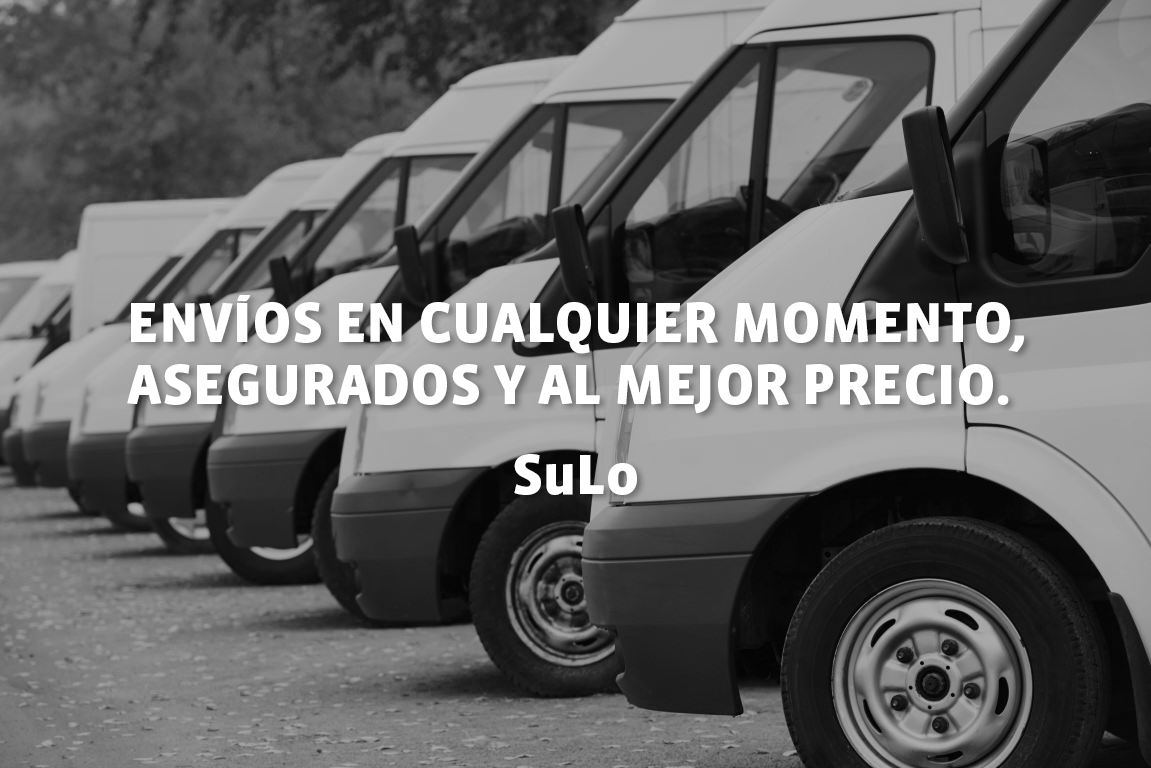
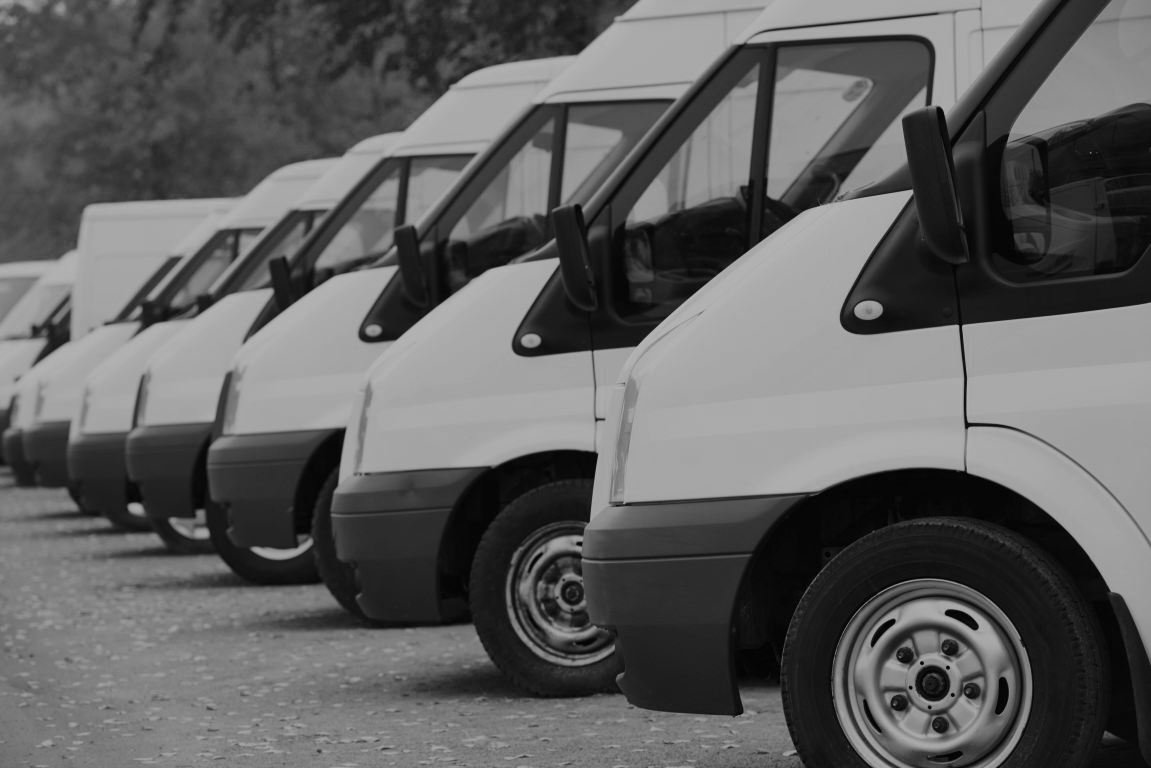
Se cambiaron íconos y se creó la página de precio

Changed region(s): [[0.0912, 0.375, 0.9123, 0.5312], [0.4257, 0.5938, 0.5778, 0.6562]]

diff --git a/index.html b/index.html
@@ -6,6 +6,7 @@
   <meta name="viewport" content="width=device-width, initial-scale=1, shrink-to-fit=no">
   <meta http-equiv="x-ua-compatible" content="ie=edge">
   <link rel="stylesheet" href="css/bootstrap.min.css">
+  <link href="https://fonts.googleapis.com/css?family=Open+Sans+Condensed:700" rel="stylesheet">
   <link rel="stylesheet" href="css/styles.css">
   <title>SuLo: Envíos Fáciles</title>
 </head>
@@ -18,8 +19,9 @@
 <a href="index.html" class="navbar-brand"><strong class="h3 font-weight-bold">SuLo</strong></a>
 <div class="collapse navbar-collapse" id="navegacion">
   <div class="navbar-nav justify-content-end" style="width: 100%">
-  <a class="nav-item nav-link text-uppercase font-weight-bold text-center" href="index.html">Acerca de <strong>SuLo</strong></a>
-  <a class="nav-item nav-link text-uppercase font-weight-bold text-center" href="#">Cotizar</a>
+  <a class="nav-item nav-link text-uppercase font-weight-bold text-center text-info" href="index.html">Acerca de <strong>SuLo</strong></a>
+  <a class="nav-item nav-link text-uppercase font-weight-bold text-center text-info" href="precios.html">Precios</a>  
+  <a class="nav-item nav-link text-uppercase font-weight-bold text-center text-info" href="cotizar.html">Cotizar</a>
 
   
   </div>
@@ -28,7 +30,12 @@
   
 </nav>  
 
-<img src="assets/img-fondo.png" class="img-fluid text-center" style="width: 100%">
+
+<div class="fondo d-flex justify-content-center align-items-center" style="width: 100%; height: 60vh">
+<h1 class="text-uppercase text-white font-weight-bold text-center mx-5" >Envíos en cualquier momento, asegurados y al mejor precio</h1> 
+  </div>  
+  
+  
 <div class="container px-3">  
   
 <div class="alert alert-info alert-dismissible fade show mt-2" role="alert">
@@ -37,34 +44,48 @@
   </button>
   <p class="mb-0"><strong>¡Nuevo!</strong> Ahora funcionamos en Barranquilla, Cali, Bogotá, Medellín y Bucaramanga </p>
 </div>  
+  
+ 
+  
 <div class="row justify-content-center">
   <div class="col-10 col-md-4">
     <div style="width: 100%" class="justify-content-center">  
       <img class="my-4" src="assets/sulopersonal.png" style="width:40%; margin-left: 30%;">
     </div> 
-    <h4 class="font-weight-bold text-center" id="personas">Soluciones para personas</h4><hr/>
-    <p class="text-center"><strong>SuLo</strong> hace fácil a cualquier persona acceder a servicios logísticos, a domicilio y a precios menores que la competencia, a la vez que contribuye a la reducción de la huella de carbono producida por enviar paquetes.</p>
+    <h4 class="font-weight-bold text-center text-info" id="personas">Soluciones para personas</h4><hr/>
+    <p class="text-center"><strong>SuLo</strong> hace fácil a cualquier persona acceder a servicios logísticos, a domicilio y a precios menores que la competencia, a la vez que contribuye a la reducción de la huella de CO<sup>2</sup> producida por enviar paquetes. <br/> <a href="#" class="text-info">Leer más</a></p>
+ 
   </div> <!-- Col 10-->
   
   <div class="col-10 col-md-4">
     <div style="width: 100%" class="justify-content-center">  
       <img class="my-4" src="assets/sulopyme.png" style="width:50%; margin-left: 25%;">
     </div> 
-    <h4 class="font-weight-bold text-center" id="personas">Soluciones para pymes</h4><hr/>
-    <p class="text-center">Para PYMES que están incursionando al mundo del e-commerce o que quieren difundir el alcance de sus tiendas, <strong>SuLo</strong>  ofrece soluciones a la medida, flexibles y asequibles.</p>  
+    <h4 class="font-weight-bold text-center text-info" id="personas">Soluciones para pymes</h4><hr/>
+    <p class="text-center">Para PYMES que están incursionando al mundo del e-commerce o que quieren difundir el alcance de sus tiendas, <strong>SuLo</strong>  ofrece soluciones a la medida, flexibles y asequibles.<br/> <a href="#" class="text-info">Leer más</a></p>  
+    
   </div> <!-- Col 10-->
   
   <div class="col-10 col-md-4">
     <div style="width: 100%" class="justify-content-center">  
       <img class="my-4" src="assets/sulocorp.png" style="width:80%; margin-left: 10%;">
     </div> 
-    <h4 class="font-weight-bold text-center" id="personas">Soluciones para corporaciones</h4><hr/>
-    <p class="text-center">Empresas que necesitan enviar constantemente paquetes y documentos pueden contar con <strong>SuLo</strong> para el cumplimiento eficiente y sistematizado de cualquier necesidad logística. </p>
+    <h4 class="font-weight-bold text-center text-info" id="personas">Soluciones para corporaciones</h4><hr/>
+    <p class="text-center">Empresas que necesitan enviar constantemente paquetes y documentos pueden contar con <strong>SuLo</strong> para el cumplimiento eficiente y sistematizado de cualquier necesidad logística. <br/> <a href="#" class="text-info">Leer más</a> </p>
+    
   </div> <!-- Col 10-->
 </div> <!--Row justify content center -->   
-
-<div class="row justify-content-center my-3">
-<button class="btn btn-success col-sm-6">¡Cotizar!</button>  
+<blockquote class="blockquote text-center">
+  <p class="mb-0">"<strong>SuLo</strong> es la opción más eficiente en las empresas logísticas. Siempre está cuando se necesita." </p>
+  <footer class="blockquote-footer">Horacio Fernández | <cite title="Source Title">Presidente Invesiones Fernández</cite></footer>
+</blockquote> 
+<blockquote class="blockquote text-center">
+  <p class="mb-0">"Una verdadera empresa del siglo XXI"</p>
+  <footer class="blockquote-footer"><cite title="Source Title">El Espectador</cite></footer>
+</blockquote>   
+  
+<div class="row justify-content-center m-3">
+<button class="btn col-sm-6 font-weight-bold">¡COTIZAR!</button>  
   
 </div>
 

diff --git a/precios.html b/precios.html
@@ -1,0 +1,116 @@
+<!DOCTYPE html>
+<html lang="en">
+<head>
+  <meta charset="UTF-8">
+  <meta http-equiv="X-UA-Compatible" content="IE=edge">
+  <meta name="viewport" content="width=device-width, initial-scale=1, shrink-to-fit=no">
+  <meta http-equiv="x-ua-compatible" content="ie=edge">
+  <link rel="stylesheet" href="css/bootstrap.min.css">
+  <link href="https://fonts.googleapis.com/css?family=Open+Sans+Condensed:700" rel="stylesheet">
+  <link rel="stylesheet" href="css/styles.css">
+  <title>Cotizar SuLo</title>
+</head>
+<body>
+
+  
+<nav class="navbar navbar-inverse bg-inverse navbar-toggleable-sm">
+<button class="navbar-toggler navbar-toggler-right" type="button" data-toggle="collapse" data-target="#navegacion" aria-controls="navegacion" aria-expanded="false"><span class="navbar-toggler-icon"></span></button>
+  
+<a href="index.html" class="navbar-brand"><strong class="h3 font-weight-bold">SuLo</strong></a>
+<div class="collapse navbar-collapse" id="navegacion">
+  <div class="navbar-nav justify-content-end" style="width: 100%">
+  <a class="nav-item nav-link text-uppercase font-weight-bold text-center text-info" href="index.html">Acerca de <strong>SuLo</strong></a>
+  <a class="nav-item nav-link text-uppercase font-weight-bold text-center text-info" href="precios.html">Precios</a>    
+  <a class="nav-item nav-link text-uppercase font-weight-bold text-center text-info" href="#">Cotizar</a>
+
+  
+  </div>
+  
+  </div>  
+  
+</nav>  
+
+<div class="fondoprecios d-flex justify-content-center align-items-center" style="width: 100%; height: 60vh">
+<h1 class="text-uppercase text-white font-weight-bold text-center mx-5" >¡Empacamos, llevamos y cumplimos!</h1> 
+  </div>  
+<div class="container px-3">  
+  
+ <h3 class="text-center font-weight-bold mt-4 bg-info text-white p-2 rounded" >NUESTROS PRECIOS</h3>
+  
+ 
+  
+<div class="row justify-content-center">
+  <div class="col-10 col-md-4">
+    <div style="width: 100%" class="justify-content-center">  
+      <img class="my-4" src="assets/tamanoxs.png" style="width:40%; margin-left: 30%;">
+    </div> 
+    <h4 class="font-weight-bold text-center text-info" id="personas">Envíos suaves</h4><hr/>
+    <p class="text-center mb-1">Cualquier lado menor a 3cm de ancho</p>
+    <h4 class="text-center font-weight-bold">7k COP</h4>
+  </div> <!-- Col 10-->
+  
+  <div class="col-10 col-md-4">
+    <div style="width: 100%" class="justify-content-center">  
+      <img class="my-4" src="assets/tamanosm.png" style="width:40%; margin-left: 30%;">
+    </div> 
+    <h4 class="font-weight-bold text-center text-info" id="personas">Envíos Pequeños</h4><hr/>
+    <p class="text-center mb-1">Volumen menor a 10 litros o 10k cm<sup>3</sup>
+    </p>
+    <h4 class="text-center font-weight-bold">10k COP</h4>
+  </div> <!-- Col 10-->
+  
+  <div class="col-10 col-md-4">
+    <div style="width: 100%" class="justify-content-center">  
+      <img class="my-4" src="assets/tamanomd.png" style="width:40%; margin-left: 30%;">
+    </div> 
+    <h4 class="font-weight-bold text-center text-info" id="personas">Envíos Medianos</h4><hr/>
+    <p class="text-center mb-1">Volumen menor a 25 litros o 25k cm<sup>3</sup></p>
+    <h4 class="text-center font-weight-bold">15k COP</h4>
+  </div> <!-- Col 10-->
+</div> <!--Row justify content center -->  
+  
+  
+<div class="row justify-content-center">
+  <div class="col-10 col-md-4">
+    <div style="width: 100%" class="justify-content-center">  
+      <img class="my-4" src="assets/tamanolg.png" style="width:40%; margin-left: 30%;">
+    </div> 
+    <h4 class="font-weight-bold text-center text-info" id="personas">Envíos Grandes</h4><hr/>
+    <p class="text-center mb-1">Envíos menores a 50 litros o 50k cm <sup>3</sup></p>
+    <h4 class="text-center font-weight-bold">30k COP</h4>
+  </div> <!-- Col 10-->
+  
+  <div class="col-10 col-md-4">
+    <div style="width: 100%" class="justify-content-center">  
+      <img class="my-4" src="assets/tamanoxl.png" style="width:40%; margin-left: 30%;">
+    </div> 
+    <h4 class="font-weight-bold text-center text-info" id="personas">Envíos XL</h4><hr/>
+    <p class="text-center mb-1">Volumen mayor a 10 litros o 10k cm<sup>3</sup> o con un lado mayor a 1 m de largo
+    </p>
+    <h4 class="text-center font-weight-bold">75k COP</h4>
+  </div> <!-- Col 10-->
+  
+  <div class="col-10 col-md-4">
+    <div style="width: 100%" class="justify-content-center">  
+      <img class="my-4" src="assets/tamanomd.jpeg" style="width:40%; margin-left: 30%;">
+    </div> 
+    <h4 class="font-weight-bold text-center text-info" id="personas">Envíos Gigantes</h4><hr/>
+    <p class="text-center mb-1">Envíos de más de 1m<sup>3</sup></p>
+    <h4 class="text-center font-weight-bold">100k COP</h4>
+  </div> <!-- Col 10-->
+</div> <!--Row justify content center -->    
+  
+<hr/>
+<h3 class="text-center font-weight-bold mt-4 bg-info text-white p-2 rounded" >PICKING &amp; PACKING</h3>
+  
+    
+  
+
+</div><!-- content container -->
+
+<script src="js/jquery.slim.min.js"></script>
+<script src="js/tether.min.js"></script>
+<script src="js/bootstrap.min.js"></script>
+<script src="js/scripts.js"></script>
+</body>
+</html>

diff --git a/css/styles.css b/css/styles.css
@@ -1,0 +1,34 @@
+hr{
+  
+border: 1px solid skyblue;
+  
+}
+
+
+button{
+  background-color: skyblue;
+  color: white;
+}
+
+
+.fondo{
+  background-image: url(../assets/img-fondo.png);
+  background-repeat: no-repeat;
+  background-position: center center;
+  
+}
+
+.fondoprecios{
+  background-image: url(../assets/caja.png);
+  background-repeat: no-repeat;
+  background-position: center top;
+  
+}
+
+h1, h4{
+  font-family: 'Open Sans Condensed', sans-serif;
+}
+
+h1{
+  text-shadow: 2px 2px 1px  skyblue;
+}
